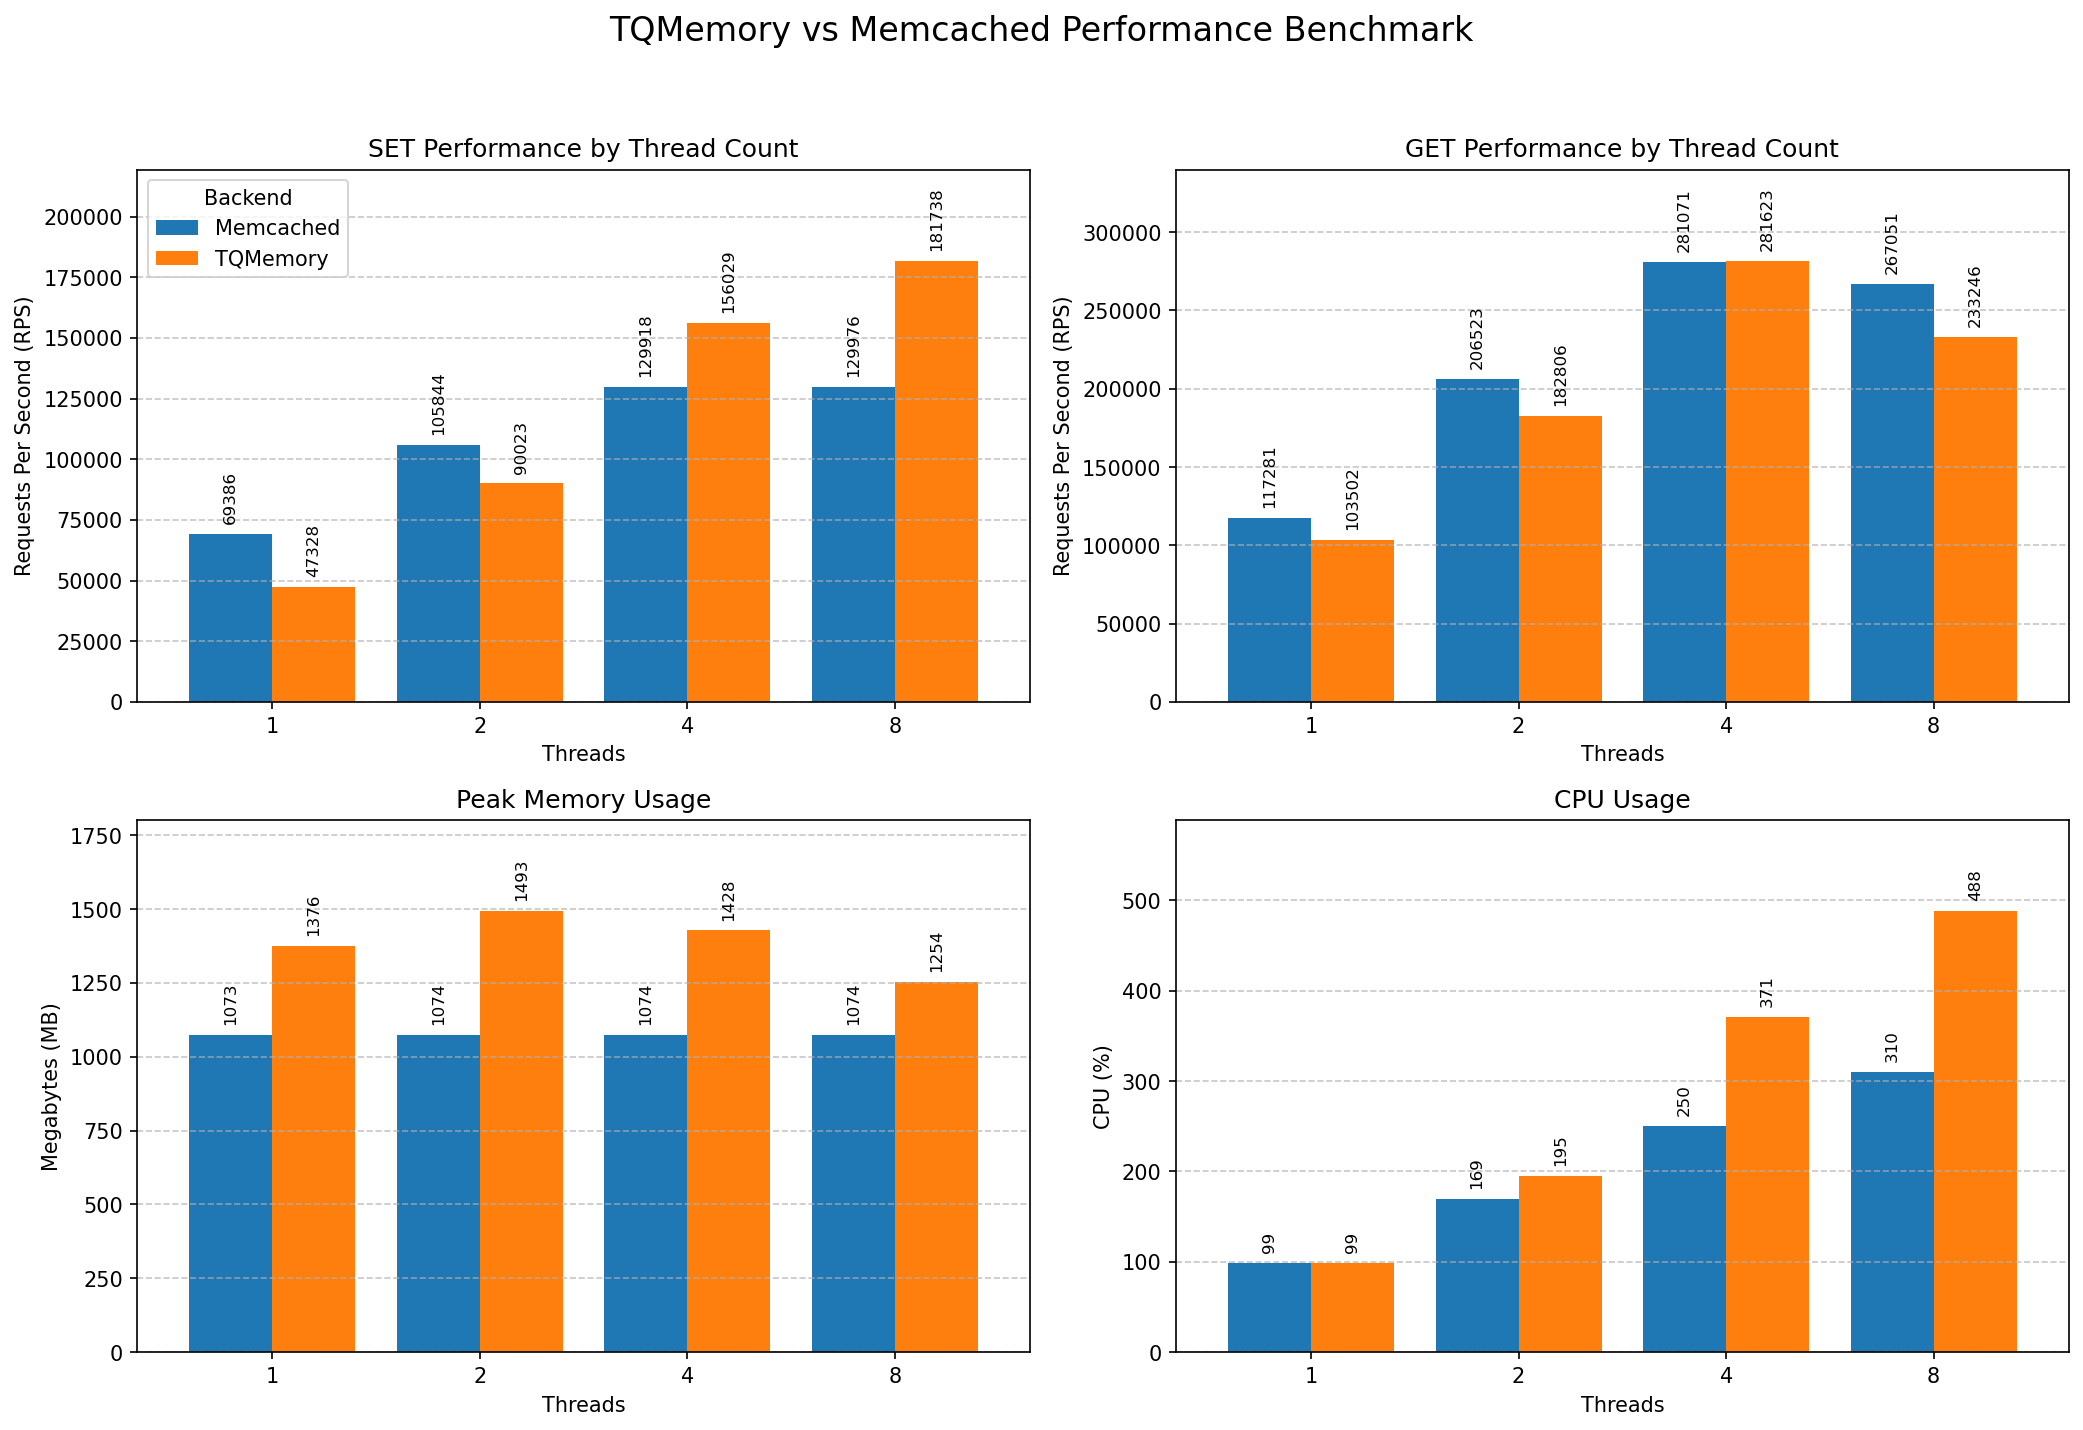
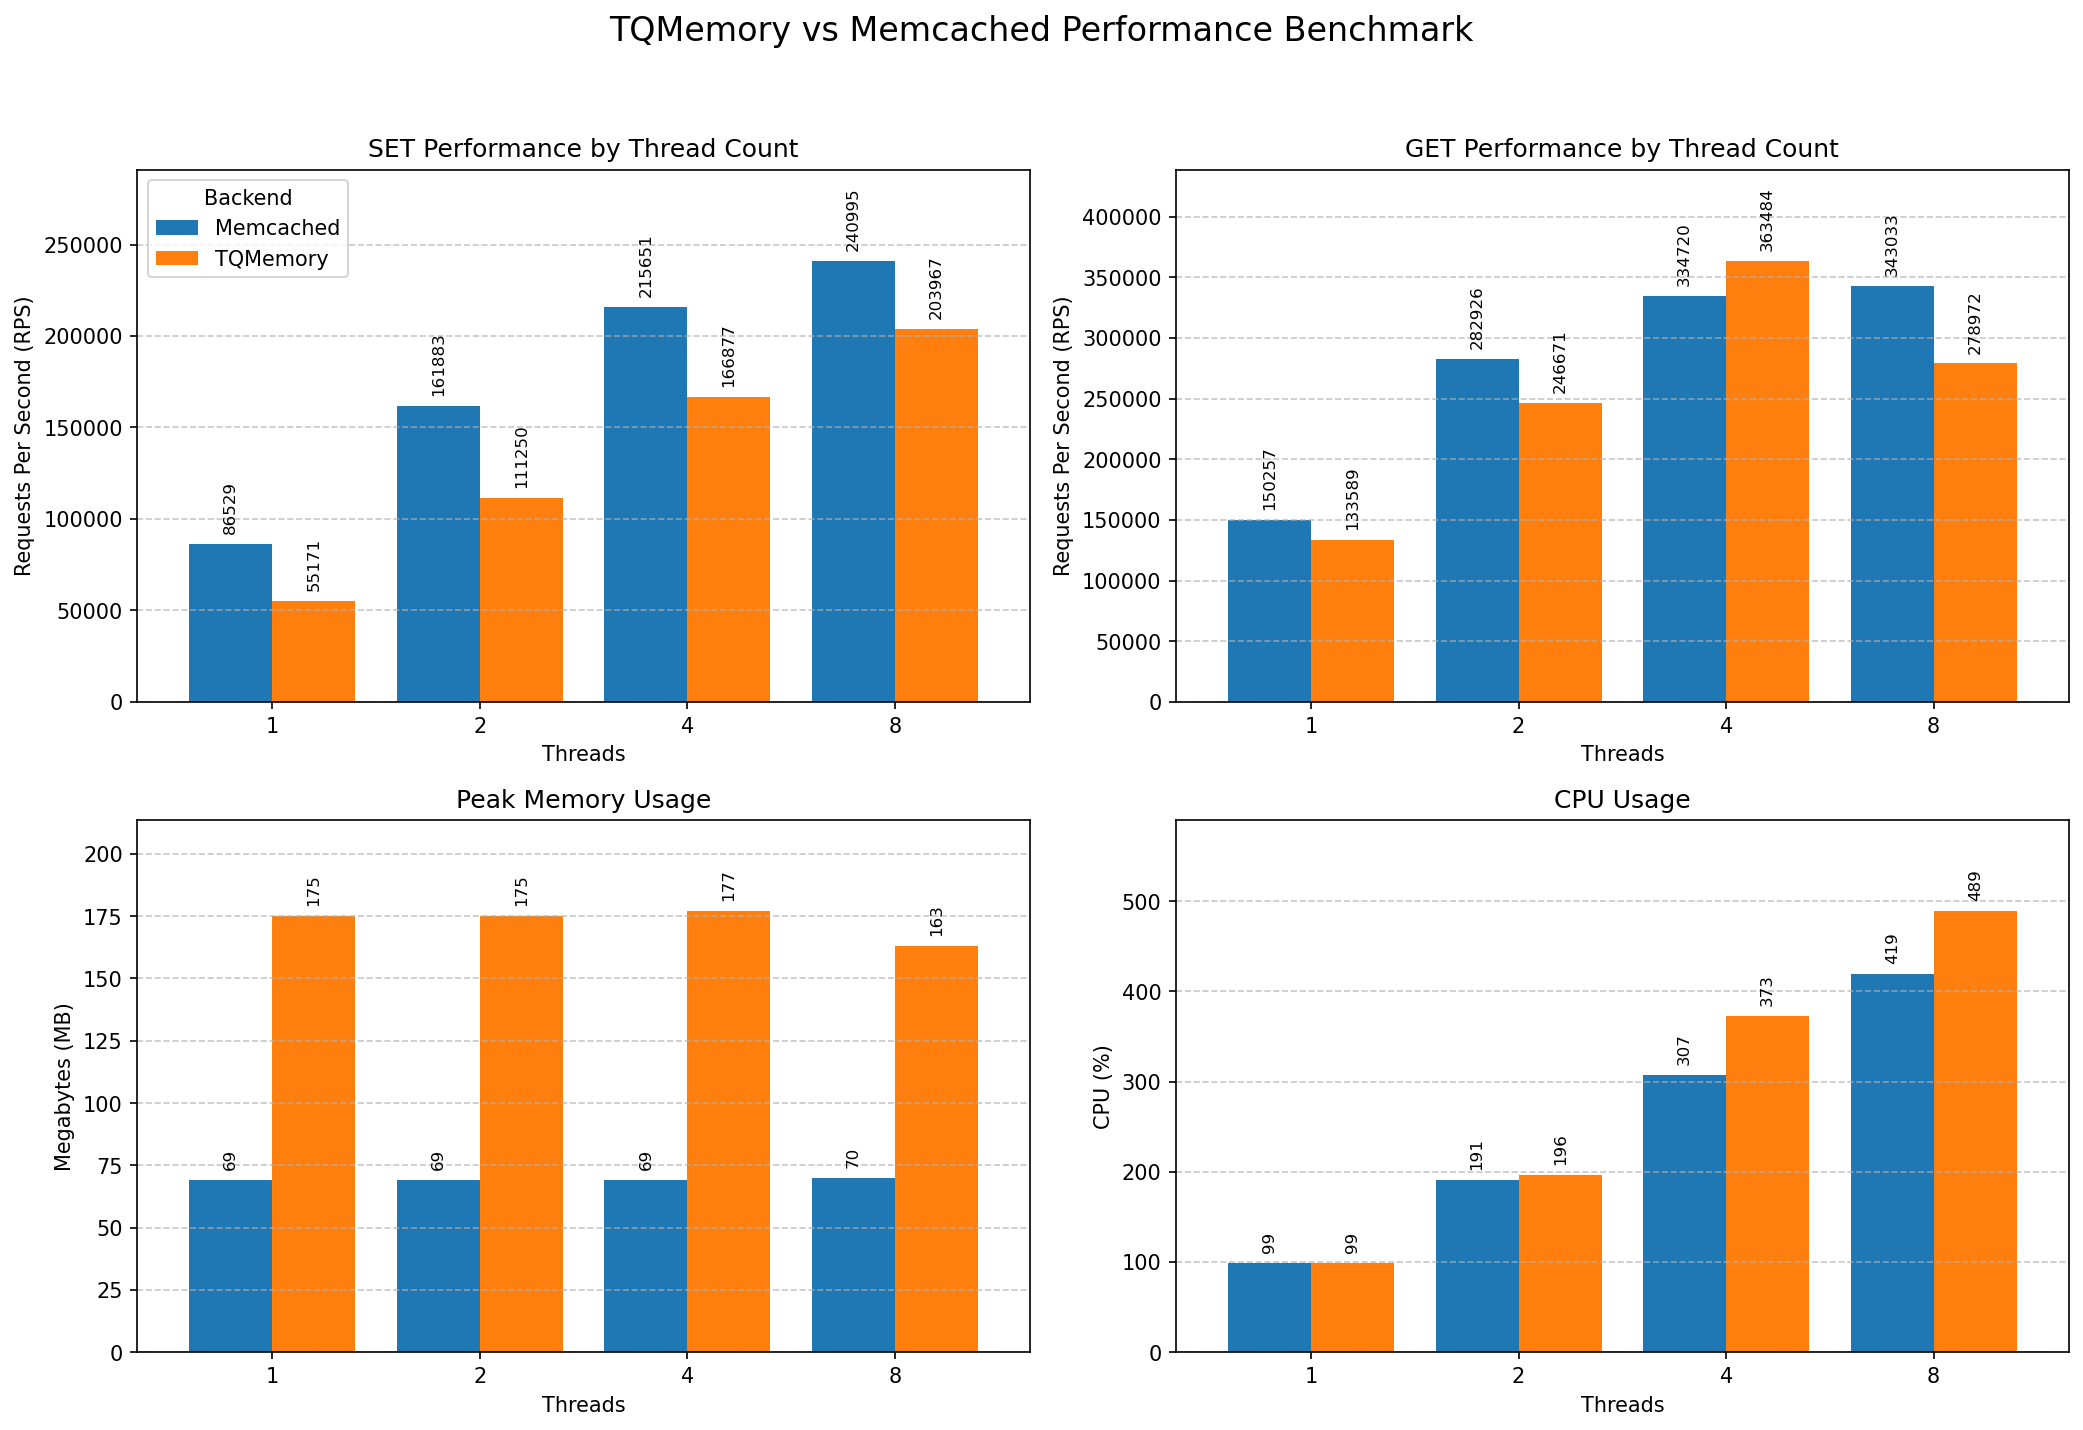
update

diff --git a/OPTIMIZATIONS.md b/OPTIMIZATIONS.md
@@ -1,0 +1,229 @@
+# TQMemory Performance Optimizations
+
+This document describes the performance optimizations applied to TQMemory to achieve competitive performance with Memcached.
+
+## Summary
+
+| Metric | Before | After | Improvement |
+|--------|--------|-------|-------------|
+| GET (single client) | 45,358 RPS | 53,125 RPS | **+17%** |
+| GET (10 clients) | 326,000 RPS | 365,000 RPS | **+12%** |
+| Gap vs Memcached | -16% | -1.6% | **+14 points** |
+
+## Optimization Phases
+
+### Phase 1: sync.Pool for Response Channels
+
+**File**: `pkg/tqmemory/sharded.go`
+
+**Change**: Added `sync.Pool` to reuse response channels instead of allocating new ones per request.
+
+```go
+var respChanPool = sync.Pool{
+    New: func() any { return make(chan *Response, 1) },
+}
+```
+
+**Result**: Minimal impact (~0%) - channel allocation was not the main bottleneck.
+
+---
+
+### Phase 2: Replace B-tree with Map
+
+**File**: `pkg/tqmemory/index.go`
+
+**Change**: Replaced `github.com/google/btree` with native `map[string]*IndexEntry` for O(1) lookups.
+
+**Before**:
+```go
+type Index struct {
+    btree *btree.BTree
+}
+```
+
+**After**:
+```go
+type Index struct {
+    data map[string]*IndexEntry
+}
+```
+
+**Result**: +2.3% improvement. Eliminated type assertion overhead and provided constant-time lookups.
+
+---
+
+### Phase 3: Direct GET Path with RWMutex
+
+**File**: `pkg/tqmemory/worker.go`, `pkg/tqmemory/sharded.go`
+
+**Change**: Added `DirectGet()` method that bypasses the channel for read operations, using `RWMutex` for concurrent access.
+
+```go
+func (w *Worker) DirectGet(key string) ([]byte, uint64, error) {
+    w.mu.RLock()
+    entry, ok := w.index.Get(key)
+    // ... check expiry ...
+    w.mu.RUnlock()
+    return entry.Value, entry.Cas, nil
+}
+```
+
+**Result**: +10% improvement. Eliminated channel overhead for GET operations.
+
+---
+
+### Phase 4: sync.Map for Lock-Free Reads
+
+**File**: `pkg/tqmemory/index.go`
+
+**Change**: Replaced the plain map with `sync.Map` to enable lock-free concurrent reads.
+
+```go
+type Index struct {
+    data sync.Map  // key → *IndexEntry, thread-safe
+}
+
+func (idx *Index) Get(key string) (*IndexEntry, bool) {
+    val, ok := idx.data.Load(key)
+    if !ok {
+        return nil, false
+    }
+    return val.(*IndexEntry), true
+}
+```
+
+**Result**: Maintained thread safety while enabling concurrent reads without RWMutex overhead.
+
+---
+
+### Phase 5: Inline FNV-1a Hash
+
+**File**: `pkg/tqmemory/sharded.go`
+
+**Change**: Inlined the FNV-1a hash function to avoid interface allocation from `fnv.New32a()`.
+
+**Before**:
+```go
+func (sc *ShardedCache) workerFor(key string) int {
+    h := fnv.New32a()
+    h.Write([]byte(key))
+    return int(h.Sum32()) % len(sc.workers)
+}
+```
+
+**After**:
+```go
+func (sc *ShardedCache) workerFor(key string) int {
+    const (
+        offset32 = uint32(2166136261)
+        prime32  = uint32(16777619)
+    )
+    hash := offset32
+    for i := 0; i < len(key); i++ {
+        hash ^= uint32(key[i])
+        hash *= prime32
+    }
+    return int(hash) % len(sc.workers)
+}
+```
+
+**Result**: +4% improvement at cache layer. Eliminated interface allocation overhead.
+
+---
+
+### Phase 6: Remove Value Copy in GET
+
+**File**: `pkg/tqmemory/worker.go`
+
+**Change**: Return the entry value slice directly instead of copying it.
+
+**Before**:
+```go
+value := make([]byte, len(entry.Value))
+copy(value, entry.Value)
+return value, cas, nil
+```
+
+**After**:
+```go
+return entry.Value, entry.Cas, nil
+```
+
+**Result**: +5% improvement. Eliminated allocation and memcpy for every GET.
+
+**Trade-off**: Caller must not modify the returned slice. This is safe because the server only reads the value to write it to the network.
+
+---
+
+### Phase 7: Batched LRU Touch
+
+**File**: `pkg/tqmemory/worker.go`
+
+**Change**: LRU touches are queued to a buffered channel and processed in batches every 100ms.
+
+```go
+// In DirectGet:
+select {
+case w.touchChan <- entry.Key:
+default:
+    // Channel full, skip this touch
+}
+
+// In worker run loop:
+case <-expiryTicker.C:
+    w.mu.Lock()
+    w.drainTouchChan()  // Process all pending LRU touches
+    w.expireKeys()
+    w.mu.Unlock()
+```
+
+**Result**: +3% improvement. Reduced lock contention by batching LRU updates.
+
+---
+
+## Profiling Results
+
+### pprof CPU Profile (Before Optimizations)
+
+| Function | CPU % |
+|----------|-------|
+| `runtime.memmove` (value copy) | 15% |
+| `runtime.mallocgc` | 46% |
+| `sync/atomic.Add` (RWMutex) | 25% |
+
+### pprof CPU Profile (After Optimizations)
+
+| Function | CPU % |
+|----------|-------|
+| `runtime.procyield` (sync.Map) | 26% |
+| `runtime.mapaccess2` (sync.Map) | 17% |
+| `workerFor` (inline FNV) | 9% |
+| `sync.Map.Load` | 36% (cumulative) |
+
+The remaining overhead is primarily from sync.Map's internal locking mechanism, which is necessary for thread safety.
+
+---
+
+## Shard Tuning
+
+Optimal shard count was determined experimentally:
+
+| Shards | GET (1 client) | GET (10 clients) |
+|--------|----------------|------------------|
+| 2 | 50K | 238K |
+| **4** | **53K** | **365K** |
+| 8 | 53K | 252K |
+| 16 | 52K | 277K |
+
+**4 shards is optimal** for this workload, balancing:
+- Too few shards = more contention per shard
+- Too many shards = more goroutine scheduling overhead
+
+---
+
+## Future Optimization Opportunities
+
+1. **Custom concurrent map**: Implement a purpose-built concurrent map with less overhead than sync.Map
+2. **io_uring**: Use Linux io_uring for more efficient network I/O
+3. **Memory pooling**: Pool frequently allocated objects (requests, responses)
+4. **NUMA awareness**: Bind workers to specific CPU cores for better cache locality
